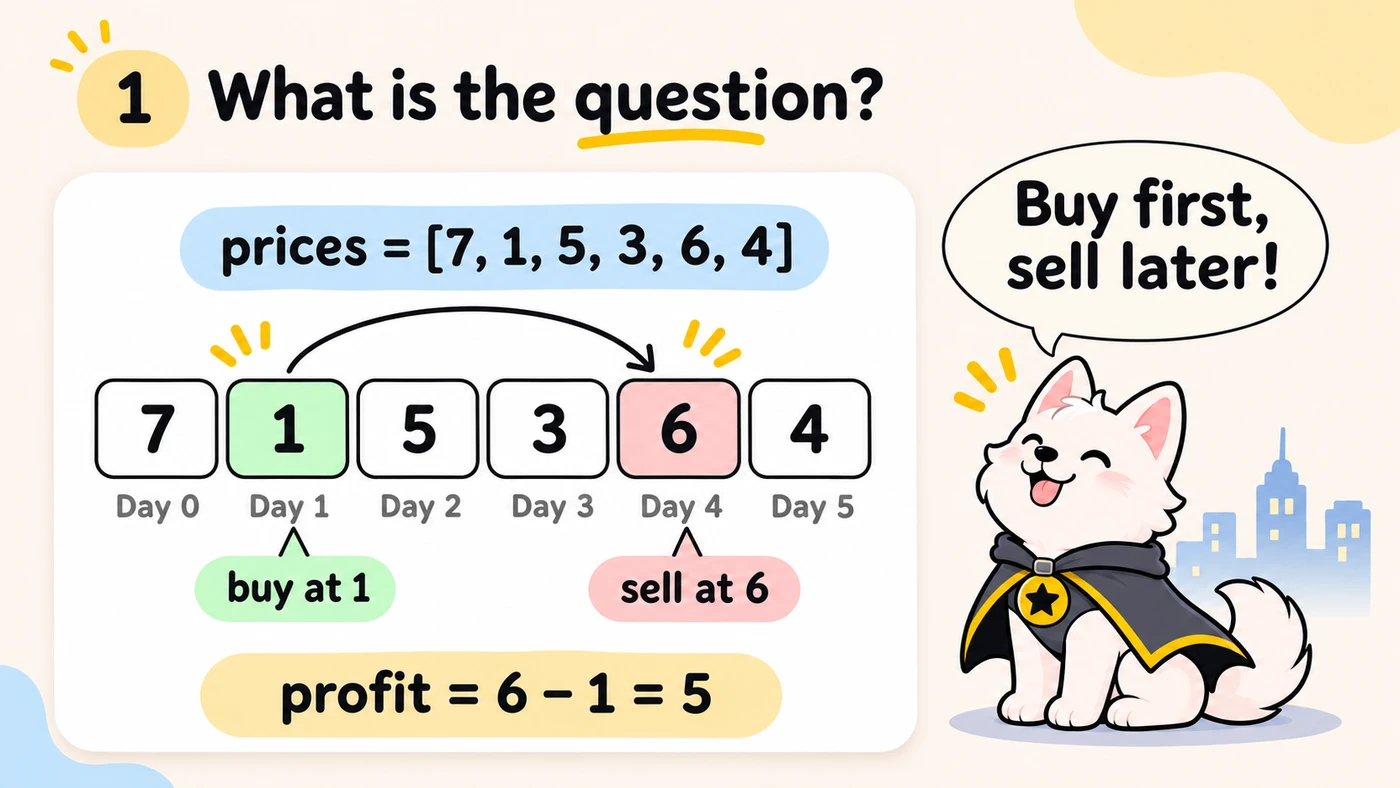
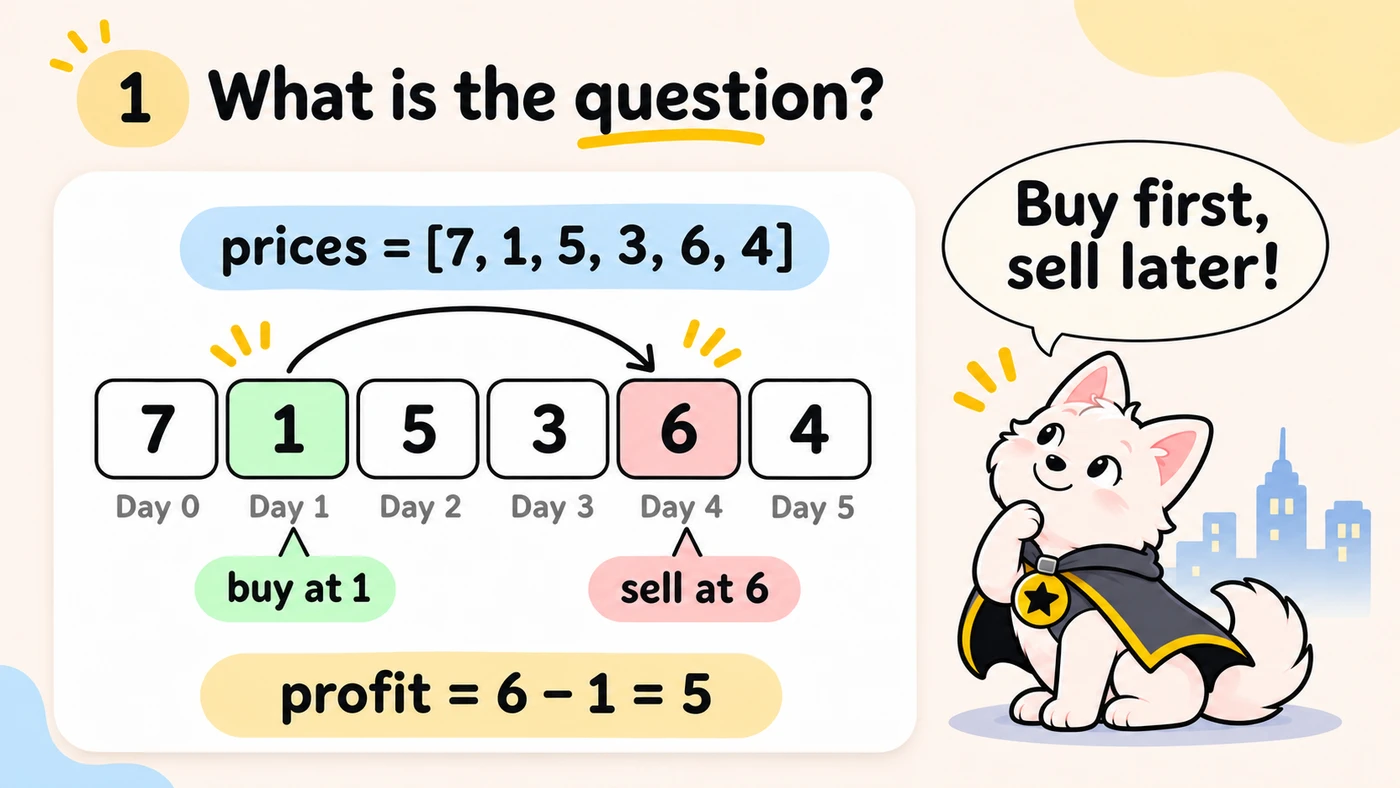
Sliding Window problem 1: the pup's pose fits each picture
Claude-Session: https://claude.ai/code/session_01C929SSvb38XrBSVCbuNvTc

diff --git a/habits.html b/habits.html
@@ -20,8 +20,8 @@ body{margin:0}
 .hb-list ol{margin:8px 0 0;padding-left:22px}
 .hb-list li{margin:8px 0;line-height:1.5}
 </style>
-<link rel="stylesheet" href="legacy-colors.css?v=20261119b">
-<link rel="stylesheet" href="site.css?v=20261119b">
+<link rel="stylesheet" href="legacy-colors.css?v=20261119c">
+<link rel="stylesheet" href="site.css?v=20261119c">
 </head>
 <body>
 <header class="ms-topbar"><div class="ms-inner"><a class="ms-home" href="index.html" aria-label="Home"><svg viewBox="0 0 24 24" fill="none" stroke="currentColor" stroke-width="2" stroke-linecap="round" stroke-linejoin="round"><path d="M3 10.5 12 3l9 7.5"/><path d="M5 9.5V21h14V9.5"/><path d="M10 21v-6h4v6"/></svg><span>Memory Systems</span></a><nav class="ms-links"><a href="shankar_dada_trees.html">Trees</a><a href="graphs.html">Graphs</a><a href="dp_workshop.html">DP</a><a href="arrays.html">Arrays</a><a href="two_pointers.html">Two Pointers</a><a href="sliding_window.html">Sliding Window</a><a href="stack.html">Stack</a><a href="binary_search.html">Binary Search</a><a href="linked_list.html">Linked List</a><a href="heap.html">Heap</a><a href="tries.html">Tries</a></nav></div></header>
@@ -77,6 +77,6 @@ body{margin:0}
 <pre class="snip"><span class="snl" style="padding-left:2ch;text-indent:-2ch"><span class="k-com"># list</span></span><span class="snl" style="padding-left:2ch;text-indent:-2ch">nums.append(<wbr>x)  <span class="k-com"># add at end</span></span><span class="snl" style="padding-left:2ch;text-indent:-2ch">nums.pop(<wbr>)      <span class="k-com"># remove last</span></span><span class="snl" style="padding-left:2ch;text-indent:-2ch">nums.pop(<wbr>i)     <span class="k-com"># remove at i</span></span><span class="snl" style="padding-left:2ch;text-indent:-2ch">nums[-<span class="k-num">1</span>]        <span class="k-com"># last item</span></span></pre><pre class="snip"><span class="snl" style="padding-left:2ch;text-indent:-2ch"><span class="k-com"># dict</span></span><span class="snl" style="padding-left:2ch;text-indent:-2ch">count[key] = <span class="k-num">1</span>  <span class="k-com"># add or change</span></span><span class="snl" style="padding-left:2ch;text-indent:-2ch">count.pop(<wbr>key)  <span class="k-com"># remove key</span></span><span class="snl" style="padding-left:2ch;text-indent:-2ch">key <span class="k-kw">in</span> count    <span class="k-com"># check</span></span><span class="snl" style="padding-left:2ch;text-indent:-2ch">count.get(<wbr>key, <span class="k-num">0</span>)  <span class="k-com"># 0 if none</span></span></pre><pre class="snip"><span class="snl" style="padding-left:2ch;text-indent:-2ch"><span class="k-com"># set</span></span><span class="snl" style="padding-left:2ch;text-indent:-2ch">seen.add(<wbr>x)     <span class="k-com"># add</span></span><span class="snl" style="padding-left:2ch;text-indent:-2ch">seen.remove(<wbr>x)  <span class="k-com"># remove x</span></span><span class="snl" style="padding-left:2ch;text-indent:-2ch">x <span class="k-kw">in</span> seen       <span class="k-com"># check</span></span></pre><pre class="snip"><span class="snl" style="padding-left:2ch;text-indent:-2ch"><span class="k-com"># deque</span></span><span class="snl" style="padding-left:2ch;text-indent:-2ch"><span class="k-kw">from</span> collections <span class="k-kw">import</span> deque</span><span class="snl" style="padding-left:2ch;text-indent:-2ch">queue.append(<wbr>x)  <span class="k-com"># add at back</span></span><span class="snl" style="padding-left:2ch;text-indent:-2ch">queue.popleft(<wbr>)  <span class="k-com"># remove front</span></span><span class="snl" style="padding-left:2ch;text-indent:-2ch">queue[<span class="k-num">0</span>]         <span class="k-com"># front item</span></span></pre><pre class="snip"><span class="snl" style="padding-left:2ch;text-indent:-2ch"><span class="k-com"># heap, smallest first</span></span><span class="snl" style="padding-left:2ch;text-indent:-2ch"><span class="k-kw">import</span> heapq</span><span class="snl" style="padding-left:2ch;text-indent:-2ch">heapq.heappush(<wbr>heap, x)  <span class="k-com"># add</span></span><span class="snl" style="padding-left:2ch;text-indent:-2ch">heapq.heappop(<wbr>heap)  <span class="k-com"># pop min</span></span><span class="snl" style="padding-left:2ch;text-indent:-2ch">heap[<span class="k-num">0</span>]  <span class="k-com"># smallest item</span></span></pre>
 </section>
 </main>
-<script src="site.js?v=20261119b" defer></script>
+<script src="site.js?v=20261119c" defer></script>
 </body>
 </html>

diff --git a/tries.html b/tries.html
@@ -69,8 +69,8 @@ td{padding:10px 12px;border:1px solid var(--border)}
 .scene-img{width:100%;border-radius:10px;border:1px solid var(--border);margin-bottom:16px;cursor:pointer;transition:transform .2s}
 .scene-img:hover{transform:scale(1.02)}
 </style>
-<link rel="stylesheet" href="legacy-colors.css?v=20261119b">
-<link rel="stylesheet" href="site.css?v=20261119b">
+<link rel="stylesheet" href="legacy-colors.css?v=20261119c">
+<link rel="stylesheet" href="site.css?v=20261119c">
 </head>
 <body>
 <header class="ms-topbar"><div class="ms-inner"><a class="ms-home" href="index.html" aria-label="Home"><svg viewBox="0 0 24 24" fill="none" stroke="currentColor" stroke-width="2" stroke-linecap="round" stroke-linejoin="round"><path d="M3 10.5 12 3l9 7.5"/><path d="M5 9.5V21h14V9.5"/><path d="M10 21v-6h4v6"/></svg><span>Memory Systems</span></a><nav class="ms-links"><a href="shankar_dada_trees.html">Trees</a><a href="graphs.html">Graphs</a><a href="dp_workshop.html">DP</a><a href="arrays.html">Arrays</a><a href="two_pointers.html">Two Pointers</a><a href="sliding_window.html">Sliding Window</a><a href="stack.html">Stack</a><a href="binary_search.html">Binary Search</a><a href="linked_list.html">Linked List</a><a href="heap.html">Heap</a><a href="tries.html" class="on">Tries</a></nav></div></header>
@@ -467,11 +467,11 @@ board[r][c] = letter"><textarea rows="6" spellcheck="false" autocapitalize="off"
 </div></div>
 
 </div>
-<script src="site.js?v=20261119b" defer></script>
-<script src="code-steps.js?v=20261119b" defer></script>
-<script src="codekeys.js?v=20261119b" defer></script>
-<script src="lesson208.js?v=20261119b" defer></script>
-<script src="lesson212.js?v=20261119b" defer></script>
-<script src="lesson.js?v=20261119b" defer></script>
+<script src="site.js?v=20261119c" defer></script>
+<script src="code-steps.js?v=20261119c" defer></script>
+<script src="codekeys.js?v=20261119c" defer></script>
+<script src="lesson208.js?v=20261119c" defer></script>
+<script src="lesson212.js?v=20261119c" defer></script>
+<script src="lesson.js?v=20261119c" defer></script>
 </body>
 </html>

diff --git a/arrays.html b/arrays.html
@@ -69,8 +69,8 @@ td{padding:10px 12px;border:1px solid var(--border)}
 .scene-img{width:100%;border-radius:10px;border:1px solid var(--border);margin-bottom:16px;cursor:pointer;transition:transform .2s}
 .scene-img:hover{transform:scale(1.02)}
 </style>
-<link rel="stylesheet" href="legacy-colors.css?v=20261119b">
-<link rel="stylesheet" href="site.css?v=20261119b">
+<link rel="stylesheet" href="legacy-colors.css?v=20261119c">
+<link rel="stylesheet" href="site.css?v=20261119c">
 </head>
 <body>
 <header class="ms-topbar"><div class="ms-inner"><a class="ms-home" href="index.html" aria-label="Home"><svg viewBox="0 0 24 24" fill="none" stroke="currentColor" stroke-width="2" stroke-linecap="round" stroke-linejoin="round"><path d="M3 10.5 12 3l9 7.5"/><path d="M5 9.5V21h14V9.5"/><path d="M10 21v-6h4v6"/></svg><span>Memory Systems</span></a><nav class="ms-links"><a href="shankar_dada_trees.html">Trees</a><a href="graphs.html">Graphs</a><a href="dp_workshop.html">DP</a><a href="arrays.html" class="on">Arrays</a><a href="two_pointers.html">Two Pointers</a><a href="sliding_window.html">Sliding Window</a><a href="stack.html">Stack</a><a href="binary_search.html">Binary Search</a><a href="linked_list.html">Linked List</a><a href="heap.html">Heap</a><a href="tries.html">Tries</a></nav></div></header>
@@ -683,9 +683,9 @@ longest = max(longest, length)"><textarea rows="4" spellcheck="false" autocapita
 </div></div>
 
 </div>
-<script src="site.js?v=20261119b" defer></script>
-<script src="code-steps.js?v=20261119b" defer></script>
-<script src="codekeys.js?v=20261119b" defer></script>
-<script src="practice.js?v=20261119b" defer></script>
+<script src="site.js?v=20261119c" defer></script>
+<script src="code-steps.js?v=20261119c" defer></script>
+<script src="codekeys.js?v=20261119c" defer></script>
+<script src="practice.js?v=20261119c" defer></script>
 </body>
 </html>

diff --git a/heap.html b/heap.html
@@ -69,8 +69,8 @@ td{padding:10px 12px;border:1px solid var(--border)}
 .scene-img{width:100%;border-radius:10px;border:1px solid var(--border);margin-bottom:16px;cursor:pointer;transition:transform .2s}
 .scene-img:hover{transform:scale(1.02)}
 </style>
-<link rel="stylesheet" href="legacy-colors.css?v=20261119b">
-<link rel="stylesheet" href="site.css?v=20261119b">
+<link rel="stylesheet" href="legacy-colors.css?v=20261119c">
+<link rel="stylesheet" href="site.css?v=20261119c">
 </head>
 <body>
 <header class="ms-topbar"><div class="ms-inner"><a class="ms-home" href="index.html" aria-label="Home"><svg viewBox="0 0 24 24" fill="none" stroke="currentColor" stroke-width="2" stroke-linecap="round" stroke-linejoin="round"><path d="M3 10.5 12 3l9 7.5"/><path d="M5 9.5V21h14V9.5"/><path d="M10 21v-6h4v6"/></svg><span>Memory Systems</span></a><nav class="ms-links"><a href="shankar_dada_trees.html">Trees</a><a href="graphs.html">Graphs</a><a href="dp_workshop.html">DP</a><a href="arrays.html">Arrays</a><a href="two_pointers.html">Two Pointers</a><a href="sliding_window.html">Sliding Window</a><a href="stack.html">Stack</a><a href="binary_search.html">Binary Search</a><a href="linked_list.html">Linked List</a><a href="heap.html" class="on">Heap</a><a href="tries.html">Tries</a></nav></div></header>
@@ -626,9 +626,9 @@ return total / 2"><textarea rows="6" spellcheck="false" autocapitalize="off" aut
 </div></div>
 
 </div>
-<script src="site.js?v=20261119b" defer></script>
-<script src="code-steps.js?v=20261119b" defer></script>
-<script src="codekeys.js?v=20261119b" defer></script>
-<script src="practice.js?v=20261119b" defer></script>
+<script src="site.js?v=20261119c" defer></script>
+<script src="code-steps.js?v=20261119c" defer></script>
+<script src="codekeys.js?v=20261119c" defer></script>
+<script src="practice.js?v=20261119c" defer></script>
 </body>
 </html>

diff --git a/sliding_window.html b/sliding_window.html
@@ -69,8 +69,8 @@ td{padding:10px 12px;border:1px solid var(--border)}
 .scene-img{width:100%;border-radius:10px;border:1px solid var(--border);margin-bottom:16px;cursor:pointer;transition:transform .2s}
 .scene-img:hover{transform:scale(1.02)}
 </style>
-<link rel="stylesheet" href="legacy-colors.css?v=20261119b">
-<link rel="stylesheet" href="site.css?v=20261119b">
+<link rel="stylesheet" href="legacy-colors.css?v=20261119c">
+<link rel="stylesheet" href="site.css?v=20261119c">
 </head>
 <body>
 <header class="ms-topbar"><div class="ms-inner"><a class="ms-home" href="index.html" aria-label="Home"><svg viewBox="0 0 24 24" fill="none" stroke="currentColor" stroke-width="2" stroke-linecap="round" stroke-linejoin="round"><path d="M3 10.5 12 3l9 7.5"/><path d="M5 9.5V21h14V9.5"/><path d="M10 21v-6h4v6"/></svg><span>Memory Systems</span></a><nav class="ms-links"><a href="shankar_dada_trees.html">Trees</a><a href="graphs.html">Graphs</a><a href="dp_workshop.html">DP</a><a href="arrays.html">Arrays</a><a href="two_pointers.html">Two Pointers</a><a href="sliding_window.html" class="on">Sliding Window</a><a href="stack.html">Stack</a><a href="binary_search.html">Binary Search</a><a href="linked_list.html">Linked List</a><a href="heap.html">Heap</a><a href="tries.html">Tries</a></nav></div></header>
@@ -580,9 +580,9 @@ left += 1"><textarea rows="5" spellcheck="false" autocapitalize="off" autocomple
 </div></div>
 
 </div>
-<script src="site.js?v=20261119b" defer></script>
-<script src="code-steps.js?v=20261119b" defer></script>
-<script src="codekeys.js?v=20261119b" defer></script>
-<script src="practice.js?v=20261119b" defer></script>
+<script src="site.js?v=20261119c" defer></script>
+<script src="code-steps.js?v=20261119c" defer></script>
+<script src="codekeys.js?v=20261119c" defer></script>
+<script src="practice.js?v=20261119c" defer></script>
 </body>
 </html>

diff --git a/binary_search.html b/binary_search.html
@@ -69,8 +69,8 @@ td{padding:10px 12px;border:1px solid var(--border)}
 .scene-img{width:100%;border-radius:10px;border:1px solid var(--border);margin-bottom:16px;cursor:pointer;transition:transform .2s}
 .scene-img:hover{transform:scale(1.02)}
 </style>
-<link rel="stylesheet" href="legacy-colors.css?v=20261119b">
-<link rel="stylesheet" href="site.css?v=20261119b">
+<link rel="stylesheet" href="legacy-colors.css?v=20261119c">
+<link rel="stylesheet" href="site.css?v=20261119c">
 </head>
 <body>
 <header class="ms-topbar"><div class="ms-inner"><a class="ms-home" href="index.html" aria-label="Home"><svg viewBox="0 0 24 24" fill="none" stroke="currentColor" stroke-width="2" stroke-linecap="round" stroke-linejoin="round"><path d="M3 10.5 12 3l9 7.5"/><path d="M5 9.5V21h14V9.5"/><path d="M10 21v-6h4v6"/></svg><span>Memory Systems</span></a><nav class="ms-links"><a href="shankar_dada_trees.html">Trees</a><a href="graphs.html">Graphs</a><a href="dp_workshop.html">DP</a><a href="arrays.html">Arrays</a><a href="two_pointers.html">Two Pointers</a><a href="sliding_window.html">Sliding Window</a><a href="stack.html">Stack</a><a href="binary_search.html" class="on">Binary Search</a><a href="linked_list.html">Linked List</a><a href="heap.html">Heap</a><a href="tries.html">Tries</a></nav></div></header>
@@ -610,9 +610,9 @@ else:
 </div></div>
 
 </div>
-<script src="site.js?v=20261119b" defer></script>
-<script src="code-steps.js?v=20261119b" defer></script>
-<script src="codekeys.js?v=20261119b" defer></script>
-<script src="practice.js?v=20261119b" defer></script>
+<script src="site.js?v=20261119c" defer></script>
+<script src="code-steps.js?v=20261119c" defer></script>
+<script src="codekeys.js?v=20261119c" defer></script>
+<script src="practice.js?v=20261119c" defer></script>
 </body>
 </html>

diff --git a/graphs.html b/graphs.html
@@ -69,8 +69,8 @@ td{padding:10px 12px;border:1px solid var(--border)}
 .scene-img{width:100%;border-radius:10px;border:1px solid var(--border);margin-bottom:16px;cursor:pointer;transition:transform .2s}
 .scene-img:hover{transform:scale(1.02)}
 </style>
-<link rel="stylesheet" href="legacy-colors.css?v=20261119b">
-<link rel="stylesheet" href="site.css?v=20261119b">
+<link rel="stylesheet" href="legacy-colors.css?v=20261119c">
+<link rel="stylesheet" href="site.css?v=20261119c">
 </head>
 <body>
 <header class="ms-topbar"><div class="ms-inner"><a class="ms-home" href="index.html" aria-label="Home"><svg viewBox="0 0 24 24" fill="none" stroke="currentColor" stroke-width="2" stroke-linecap="round" stroke-linejoin="round"><path d="M3 10.5 12 3l9 7.5"/><path d="M5 9.5V21h14V9.5"/><path d="M10 21v-6h4v6"/></svg><span>Memory Systems</span></a><nav class="ms-links"><a href="shankar_dada_trees.html">Trees</a><a href="graphs.html" class="on">Graphs</a><a href="dp_workshop.html">DP</a><a href="arrays.html">Arrays</a><a href="two_pointers.html">Two Pointers</a><a href="sliding_window.html">Sliding Window</a><a href="stack.html">Stack</a><a href="binary_search.html">Binary Search</a><a href="linked_list.html">Linked List</a><a href="heap.html">Heap</a><a href="tries.html">Tries</a></nav></div></header>
@@ -1134,6 +1134,6 @@ document.querySelectorAll('.nav button').forEach(b=>b.classList.remove('on'));
 event.target.classList.add('on');
 }
 </script>
-<script src="site.js?v=20261119b" defer></script>
+<script src="site.js?v=20261119c" defer></script>
 </body>
 </html>

diff --git a/index.html b/index.html
@@ -37,8 +37,8 @@ a.card:hover{transform:translateY(-4px);border-color:var(--gold2);box-shadow:0 8
 @media(max-width:720px){.grid{grid-template-columns:1fr}}
 @media(min-width:721px) and (max-width:960px){.grid{grid-template-columns:1fr 1fr}}
 </style>
-<link rel="stylesheet" href="legacy-colors.css?v=20261119b">
-<link rel="stylesheet" href="site.css?v=20261119b">
+<link rel="stylesheet" href="legacy-colors.css?v=20261119c">
+<link rel="stylesheet" href="site.css?v=20261119c">
 </head>
 <body>
 <header class="ms-topbar"><div class="ms-inner"><a class="ms-home" href="index.html" aria-label="Home"><svg viewBox="0 0 24 24" fill="none" stroke="currentColor" stroke-width="2" stroke-linecap="round" stroke-linejoin="round"><path d="M3 10.5 12 3l9 7.5"/><path d="M5 9.5V21h14V9.5"/><path d="M10 21v-6h4v6"/></svg><span>Memory Systems</span></a><nav class="ms-links"><a href="shankar_dada_trees.html">Trees</a><a href="graphs.html">Graphs</a><a href="dp_workshop.html">DP</a><a href="arrays.html">Arrays</a><a href="two_pointers.html">Two Pointers</a><a href="sliding_window.html">Sliding Window</a><a href="stack.html">Stack</a><a href="binary_search.html">Binary Search</a><a href="linked_list.html">Linked List</a><a href="heap.html">Heap</a><a href="tries.html">Tries</a></nav></div></header>
@@ -111,6 +111,6 @@ a.card:hover{transform:translateY(-4px);border-color:var(--gold2);box-shadow:0 8
 
 <div class="footer">Built by Nambi</div>
 
-<script src="site.js?v=20261119b" defer></script>
+<script src="site.js?v=20261119c" defer></script>
 </body>
 </html>

diff --git a/lis_dp.html b/lis_dp.html
@@ -236,8 +236,8 @@ a.wshome{color:inherit;text-decoration:none;display:block}
 a.wshome:hover h1{opacity:.82}
 .wsback{display:block;font-size:.62em;letter-spacing:.16em;text-transform:uppercase;font-weight:800;opacity:.75;margin-bottom:6px}
 </style>
-<link rel="stylesheet" href="legacy-colors.css?v=20261119b">
-<link rel="stylesheet" href="site.css?v=20261119b">
+<link rel="stylesheet" href="legacy-colors.css?v=20261119c">
+<link rel="stylesheet" href="site.css?v=20261119c">
 </head>
 <body>
 <header class="ms-topbar"><div class="ms-inner"><a class="ms-home" href="index.html" aria-label="Home"><svg viewBox="0 0 24 24" fill="none" stroke="currentColor" stroke-width="2" stroke-linecap="round" stroke-linejoin="round"><path d="M3 10.5 12 3l9 7.5"/><path d="M5 9.5V21h14V9.5"/><path d="M10 21v-6h4v6"/></svg><span>Memory Systems</span></a><nav class="ms-links"><a href="shankar_dada_trees.html">Trees</a><a href="graphs.html">Graphs</a><a href="dp_workshop.html" class="on">DP</a><a href="arrays.html">Arrays</a><a href="two_pointers.html">Two Pointers</a><a href="sliding_window.html">Sliding Window</a><a href="stack.html">Stack</a><a href="binary_search.html">Binary Search</a><a href="linked_list.html">Linked List</a><a href="heap.html">Heap</a><a href="tries.html">Tries</a></nav></div></header>
@@ -1230,6 +1230,6 @@ Outside the function, and not optional. The chain ends somewhere and nobody said
 
 </div>
 
-<script src="site.js?v=20261119b" defer></script>
+<script src="site.js?v=20261119c" defer></script>
 </body>
 </html>

diff --git a/table_2d_dp.html b/table_2d_dp.html
@@ -69,8 +69,8 @@ a.wshome:hover h1{opacity:.82}
 .recallcard .rlbl{font-size:.62em;letter-spacing:.18em;font-weight:800;color:var(--gold2);text-transform:uppercase}
 .recallcard p{margin:6px 0 10px;font-size:.9em;color:var(--muted)}
 </style>
-<link rel="stylesheet" href="legacy-colors.css?v=20261119b">
-<link rel="stylesheet" href="site.css?v=20261119b">
+<link rel="stylesheet" href="legacy-colors.css?v=20261119c">
+<link rel="stylesheet" href="site.css?v=20261119c">
 </head>
 <body>
 <header class="ms-topbar"><div class="ms-inner"><a class="ms-home" href="index.html" aria-label="Home"><svg viewBox="0 0 24 24" fill="none" stroke="currentColor" stroke-width="2" stroke-linecap="round" stroke-linejoin="round"><path d="M3 10.5 12 3l9 7.5"/><path d="M5 9.5V21h14V9.5"/><path d="M10 21v-6h4v6"/></svg><span>Memory Systems</span></a><nav class="ms-links"><a href="shankar_dada_trees.html">Trees</a><a href="graphs.html">Graphs</a><a href="dp_workshop.html" class="on">DP</a><a href="arrays.html">Arrays</a><a href="two_pointers.html">Two Pointers</a><a href="sliding_window.html">Sliding Window</a><a href="stack.html">Stack</a><a href="binary_search.html">Binary Search</a><a href="linked_list.html">Linked List</a><a href="heap.html">Heap</a><a href="tries.html">Tries</a></nav></div></header>
@@ -4095,6 +4095,6 @@ Given a <code>text</code> and a <code>pattern</code>, decide whether the pattern
 
 </div>
 
-<script src="site.js?v=20261119b" defer></script>
+<script src="site.js?v=20261119c" defer></script>
 </body>
 </html>

diff --git a/palindrome_dp.html b/palindrome_dp.html
@@ -78,8 +78,8 @@ a.wshome:hover h1{opacity:.82}
 .recallcard .rlbl{font-size:.62em;letter-spacing:.18em;font-weight:800;color:var(--gold2);text-transform:uppercase}
 .recallcard p{margin:6px 0 10px;font-size:.9em;color:var(--muted)}
 </style>
-<link rel="stylesheet" href="legacy-colors.css?v=20261119b">
-<link rel="stylesheet" href="site.css?v=20261119b">
+<link rel="stylesheet" href="legacy-colors.css?v=20261119c">
+<link rel="stylesheet" href="site.css?v=20261119c">
 </head>
 <body>
 <header class="ms-topbar"><div class="ms-inner"><a class="ms-home" href="index.html" aria-label="Home"><svg viewBox="0 0 24 24" fill="none" stroke="currentColor" stroke-width="2" stroke-linecap="round" stroke-linejoin="round"><path d="M3 10.5 12 3l9 7.5"/><path d="M5 9.5V21h14V9.5"/><path d="M10 21v-6h4v6"/></svg><span>Memory Systems</span></a><nav class="ms-links"><a href="shankar_dada_trees.html">Trees</a><a href="graphs.html">Graphs</a><a href="dp_workshop.html" class="on">DP</a><a href="arrays.html">Arrays</a><a href="two_pointers.html">Two Pointers</a><a href="sliding_window.html">Sliding Window</a><a href="stack.html">Stack</a><a href="binary_search.html">Binary Search</a><a href="linked_list.html">Linked List</a><a href="heap.html">Heap</a><a href="tries.html">Tries</a></nav></div></header>
@@ -582,6 +582,6 @@ Same <code>is_pal[left][right]</code> table, same recursion, same base cases, sa
 
 </div>
 
-<script src="site.js?v=20261119b" defer></script>
+<script src="site.js?v=20261119c" defer></script>
 </body>
 </html>

diff --git a/linked_list.html b/linked_list.html
@@ -69,8 +69,8 @@ td{padding:10px 12px;border:1px solid var(--border)}
 .scene-img{width:100%;border-radius:10px;border:1px solid var(--border);margin-bottom:16px;cursor:pointer;transition:transform .2s}
 .scene-img:hover{transform:scale(1.02)}
 </style>
-<link rel="stylesheet" href="legacy-colors.css?v=20261119b">
-<link rel="stylesheet" href="site.css?v=20261119b">
+<link rel="stylesheet" href="legacy-colors.css?v=20261119c">
+<link rel="stylesheet" href="site.css?v=20261119c">
 </head>
 <body>
 <header class="ms-topbar"><div class="ms-inner"><a class="ms-home" href="index.html" aria-label="Home"><svg viewBox="0 0 24 24" fill="none" stroke="currentColor" stroke-width="2" stroke-linecap="round" stroke-linejoin="round"><path d="M3 10.5 12 3l9 7.5"/><path d="M5 9.5V21h14V9.5"/><path d="M10 21v-6h4v6"/></svg><span>Memory Systems</span></a><nav class="ms-links"><a href="shankar_dada_trees.html">Trees</a><a href="graphs.html">Graphs</a><a href="dp_workshop.html">DP</a><a href="arrays.html">Arrays</a><a href="two_pointers.html">Two Pointers</a><a href="sliding_window.html">Sliding Window</a><a href="stack.html">Stack</a><a href="binary_search.html">Binary Search</a><a href="linked_list.html" class="on">Linked List</a><a href="heap.html">Heap</a><a href="tries.html">Tries</a></nav></div></header>
@@ -150,6 +150,6 @@ td{padding:10px 12px;border:1px solid var(--border)}
 </div></div>
 
 </div>
-<script src="site.js?v=20261119b" defer></script>
+<script src="site.js?v=20261119c" defer></script>
 </body>
 </html>
